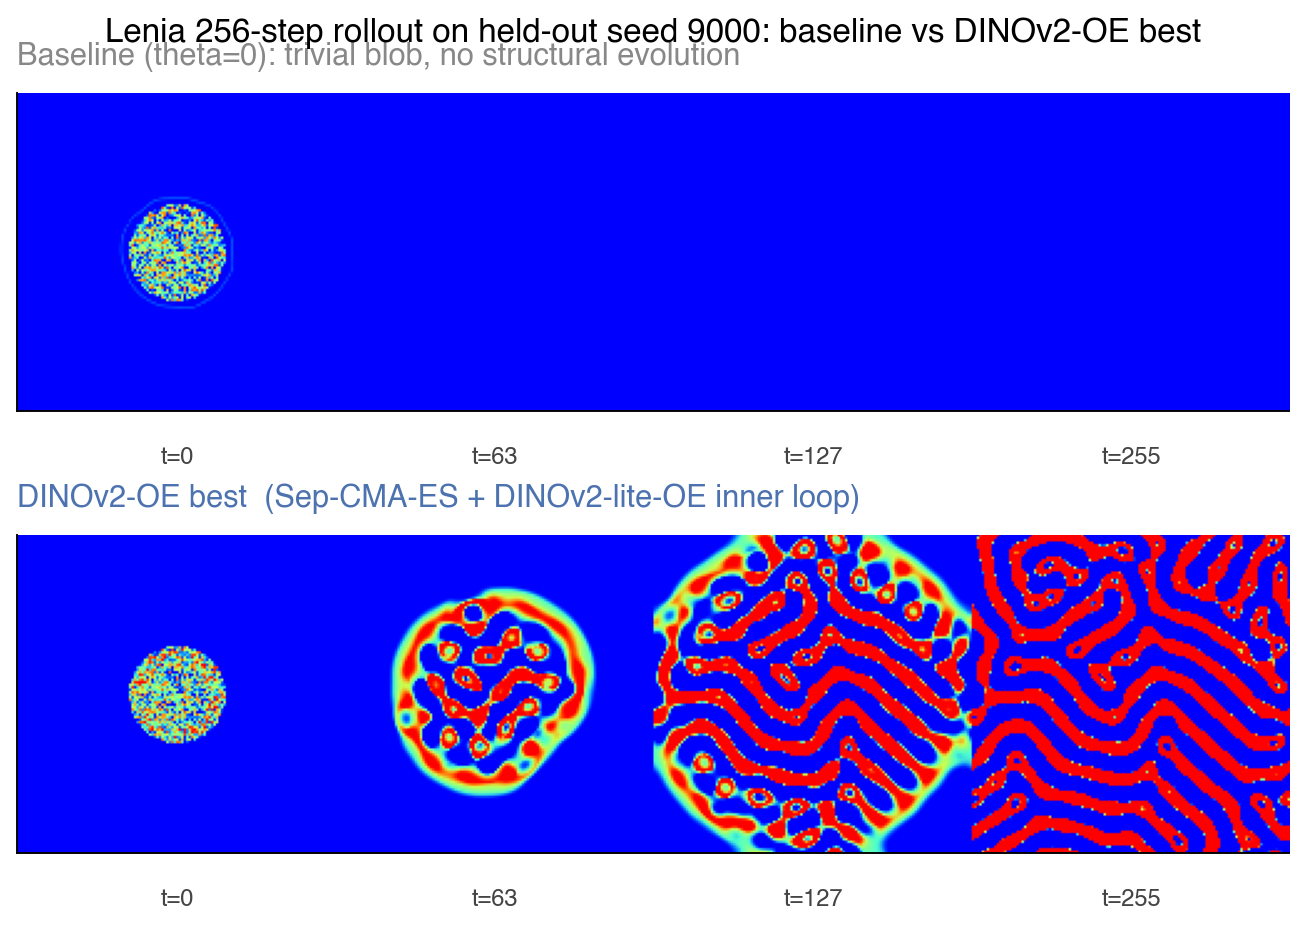
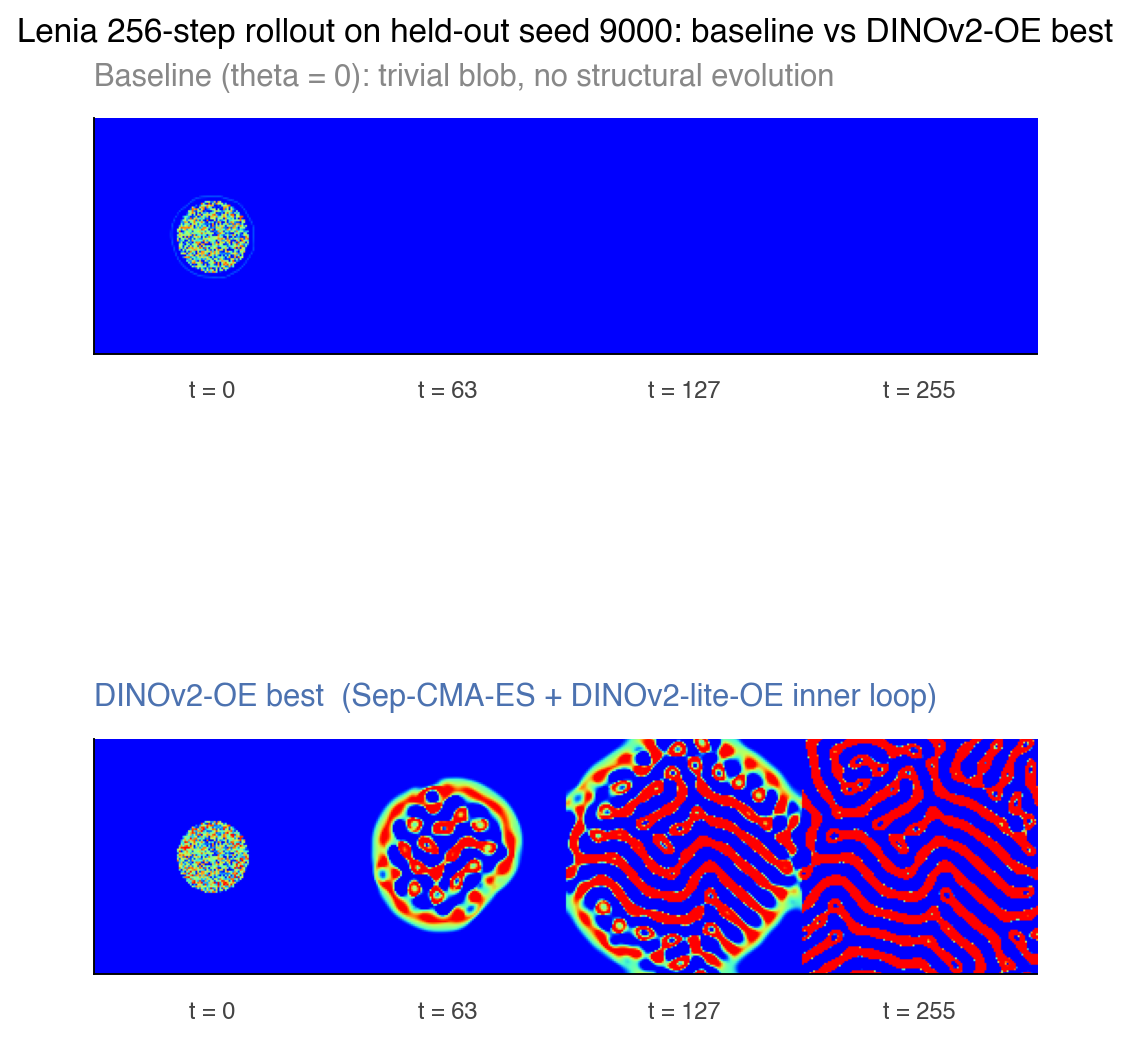
orbit 05-dinov2-oe: refresh narrative figure

diff --git a/orbits/05-dinov2-oe/make_figures.py b/orbits/05-dinov2-oe/make_figures.py
@@ -107,10 +107,13 @@ def make_narrative(best_params: jax.Array, out_path: Path, seed: int = 9000):
     strip_b = make_strip(baseline_params, seed)
     strip_d = make_strip(best_params, seed)
 
-    fig, axes = plt.subplots(2, 1, figsize=(12, 5.2))
+    fig, axes = plt.subplots(
+        2, 1, figsize=(13, 6.0),
+        gridspec_kw={"hspace": 0.55},
+    )
     for ax, strip, title, col in [
         (axes[0], strip_b,
-         "Baseline (theta=0): trivial blob, no structural evolution",
+         "Baseline (theta = 0): trivial blob, no structural evolution",
          COLORS["baseline"]),
         (axes[1], strip_d,
          "DINOv2-OE best  (Sep-CMA-ES + DINOv2-lite-OE inner loop)",
@@ -120,16 +123,17 @@ def make_narrative(best_params: jax.Array, out_path: Path, seed: int = 9000):
         ax.set_xticks([])
         ax.set_yticks([])
         ax.set_title(title, color=col, loc="left", fontweight="medium",
-                     pad=12, fontsize=13)
+                     pad=14, fontsize=13)
         H, Wstrip, _ = strip.shape
         n_frames = len(sol._FRAME_PICKS)
         w_each = Wstrip / n_frames
         for i, t in enumerate(sol._FRAME_PICKS):
-            ax.text((i + 0.5) * w_each, H + 14, f"t={t}",
+            ax.text((i + 0.5) * w_each, H + 14, f"t = {t}",
                     ha="center", va="top", fontsize=10, color="#444")
     fig.suptitle(
-        "Lenia 256-step rollout on held-out seed 9000: baseline vs DINOv2-OE best",
-        y=1.02, fontsize=14, fontweight="medium",
+        "Lenia 256-step rollout on held-out seed 9000: "
+        "baseline vs DINOv2-OE best",
+        fontsize=14, fontweight="medium",
     )
     fig.savefig(out_path, dpi=170, bbox_inches="tight")
     plt.close(fig)
